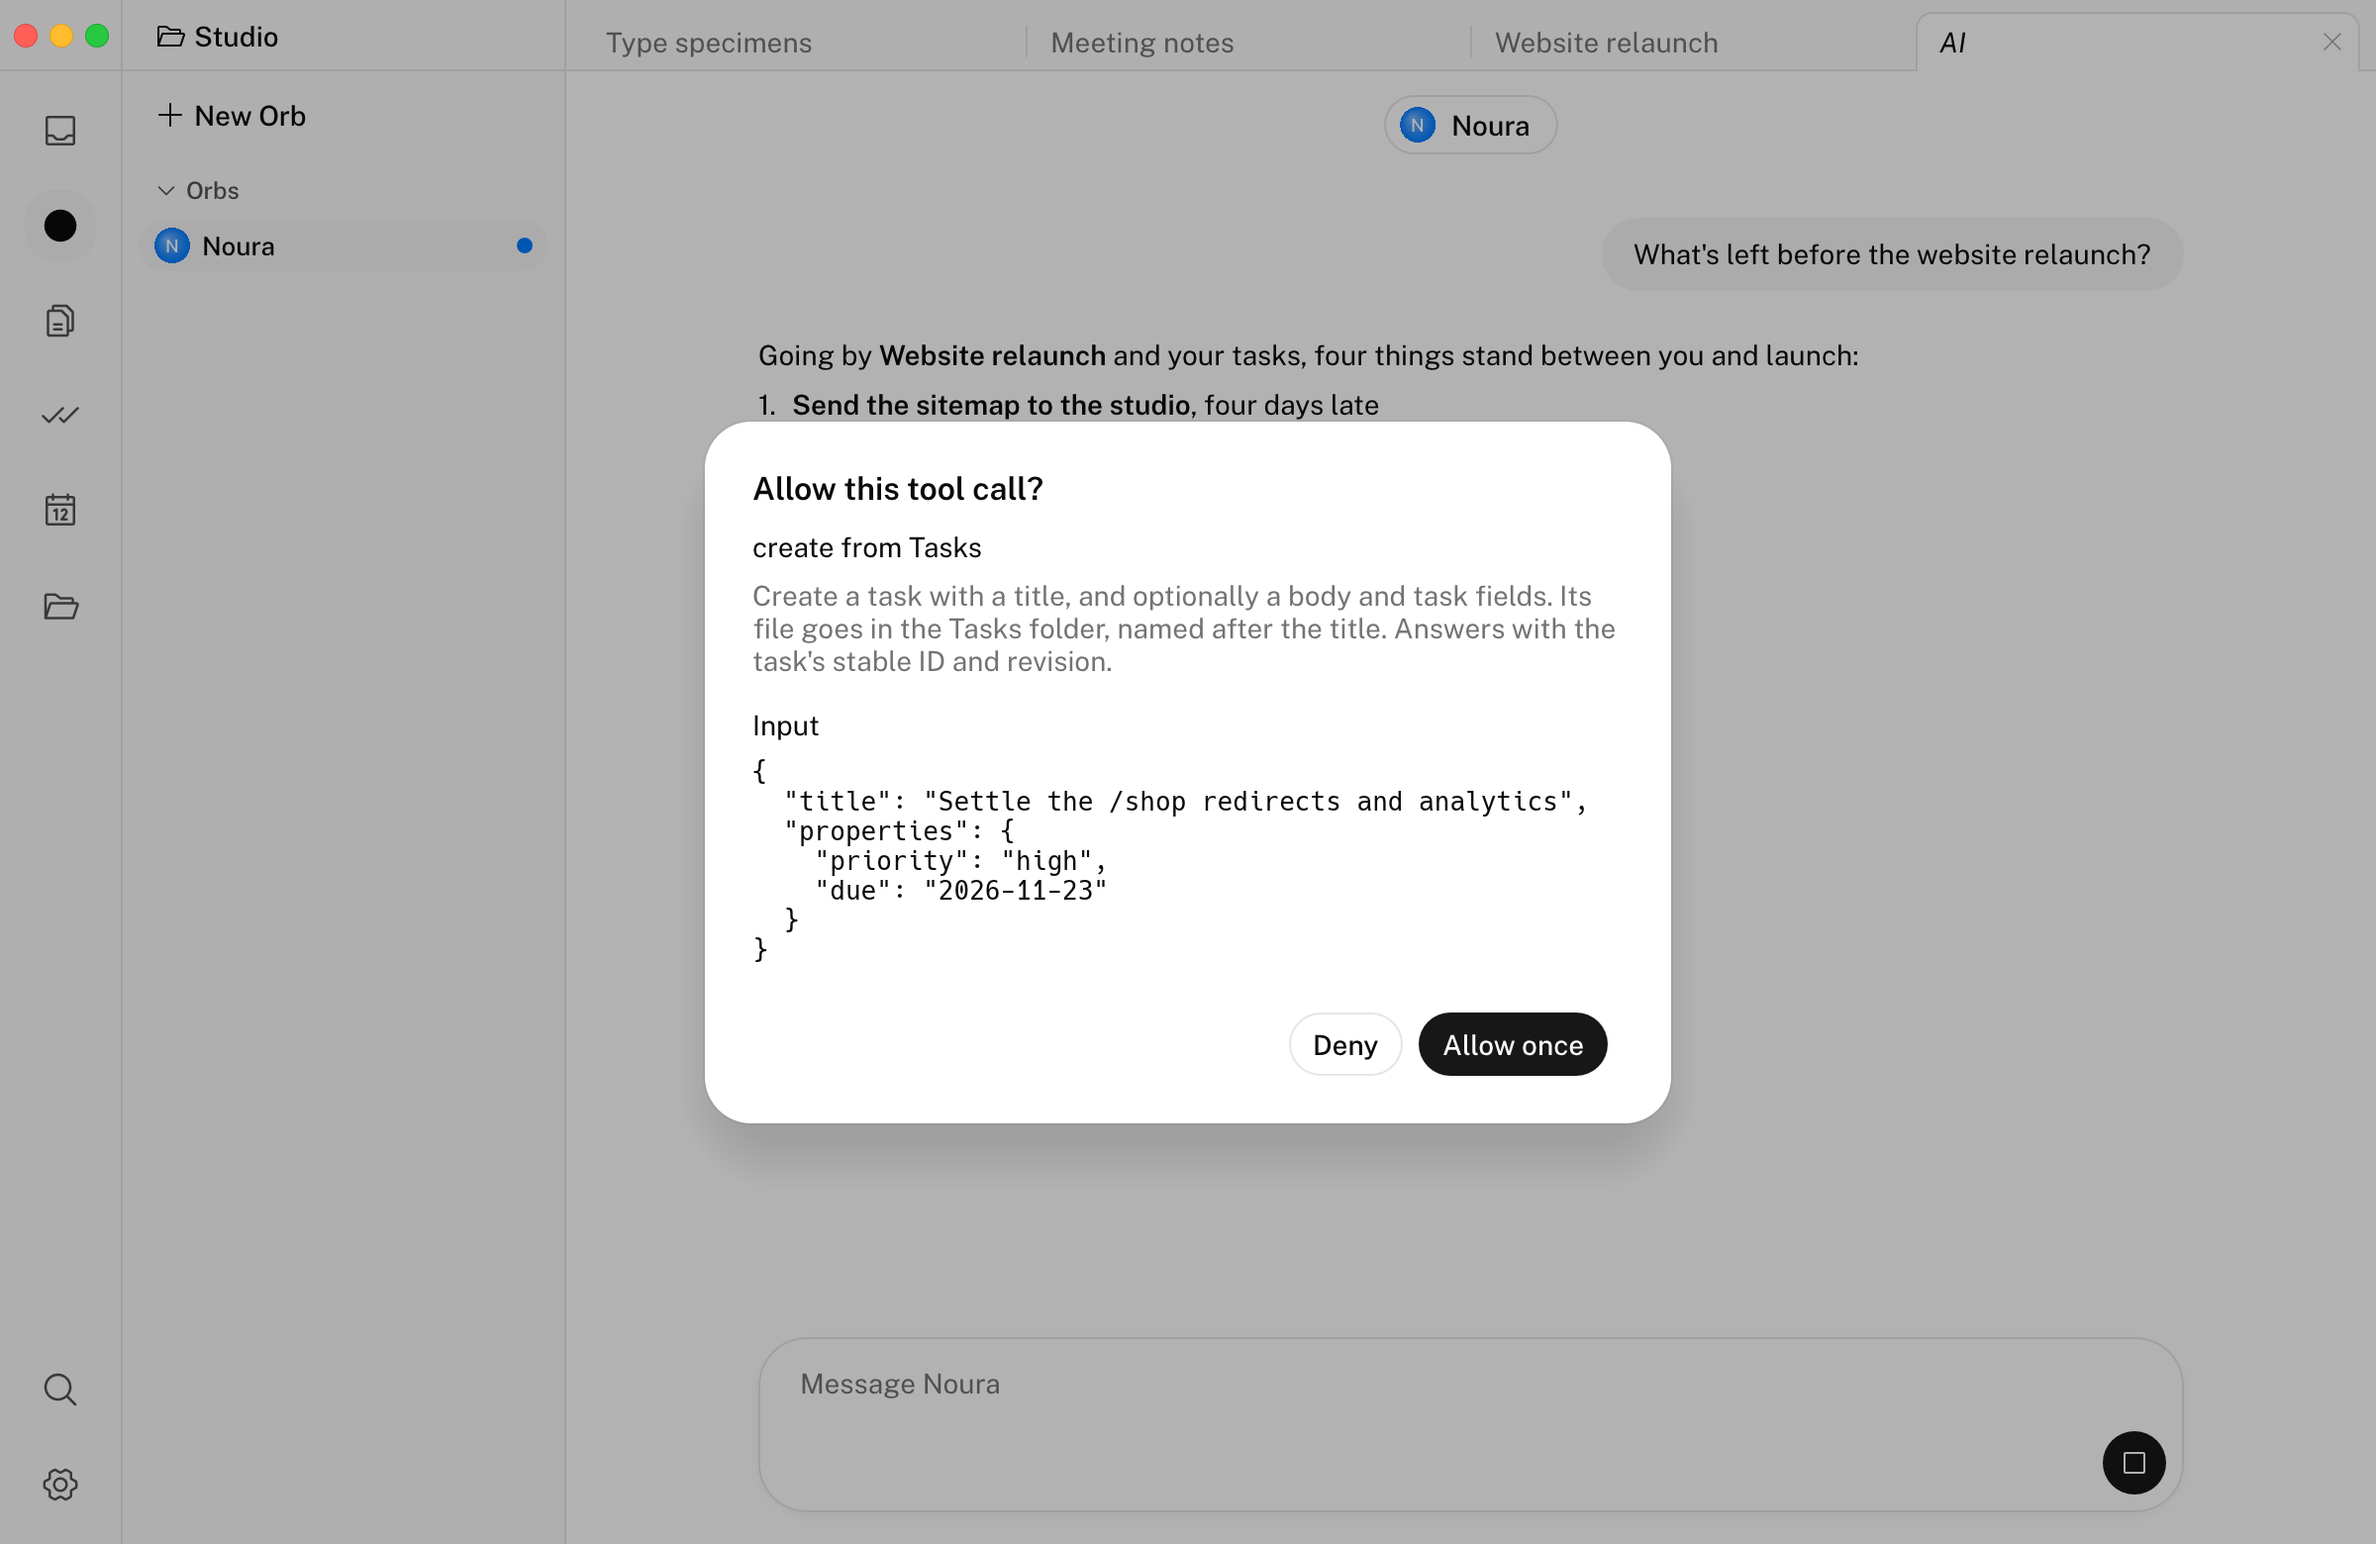
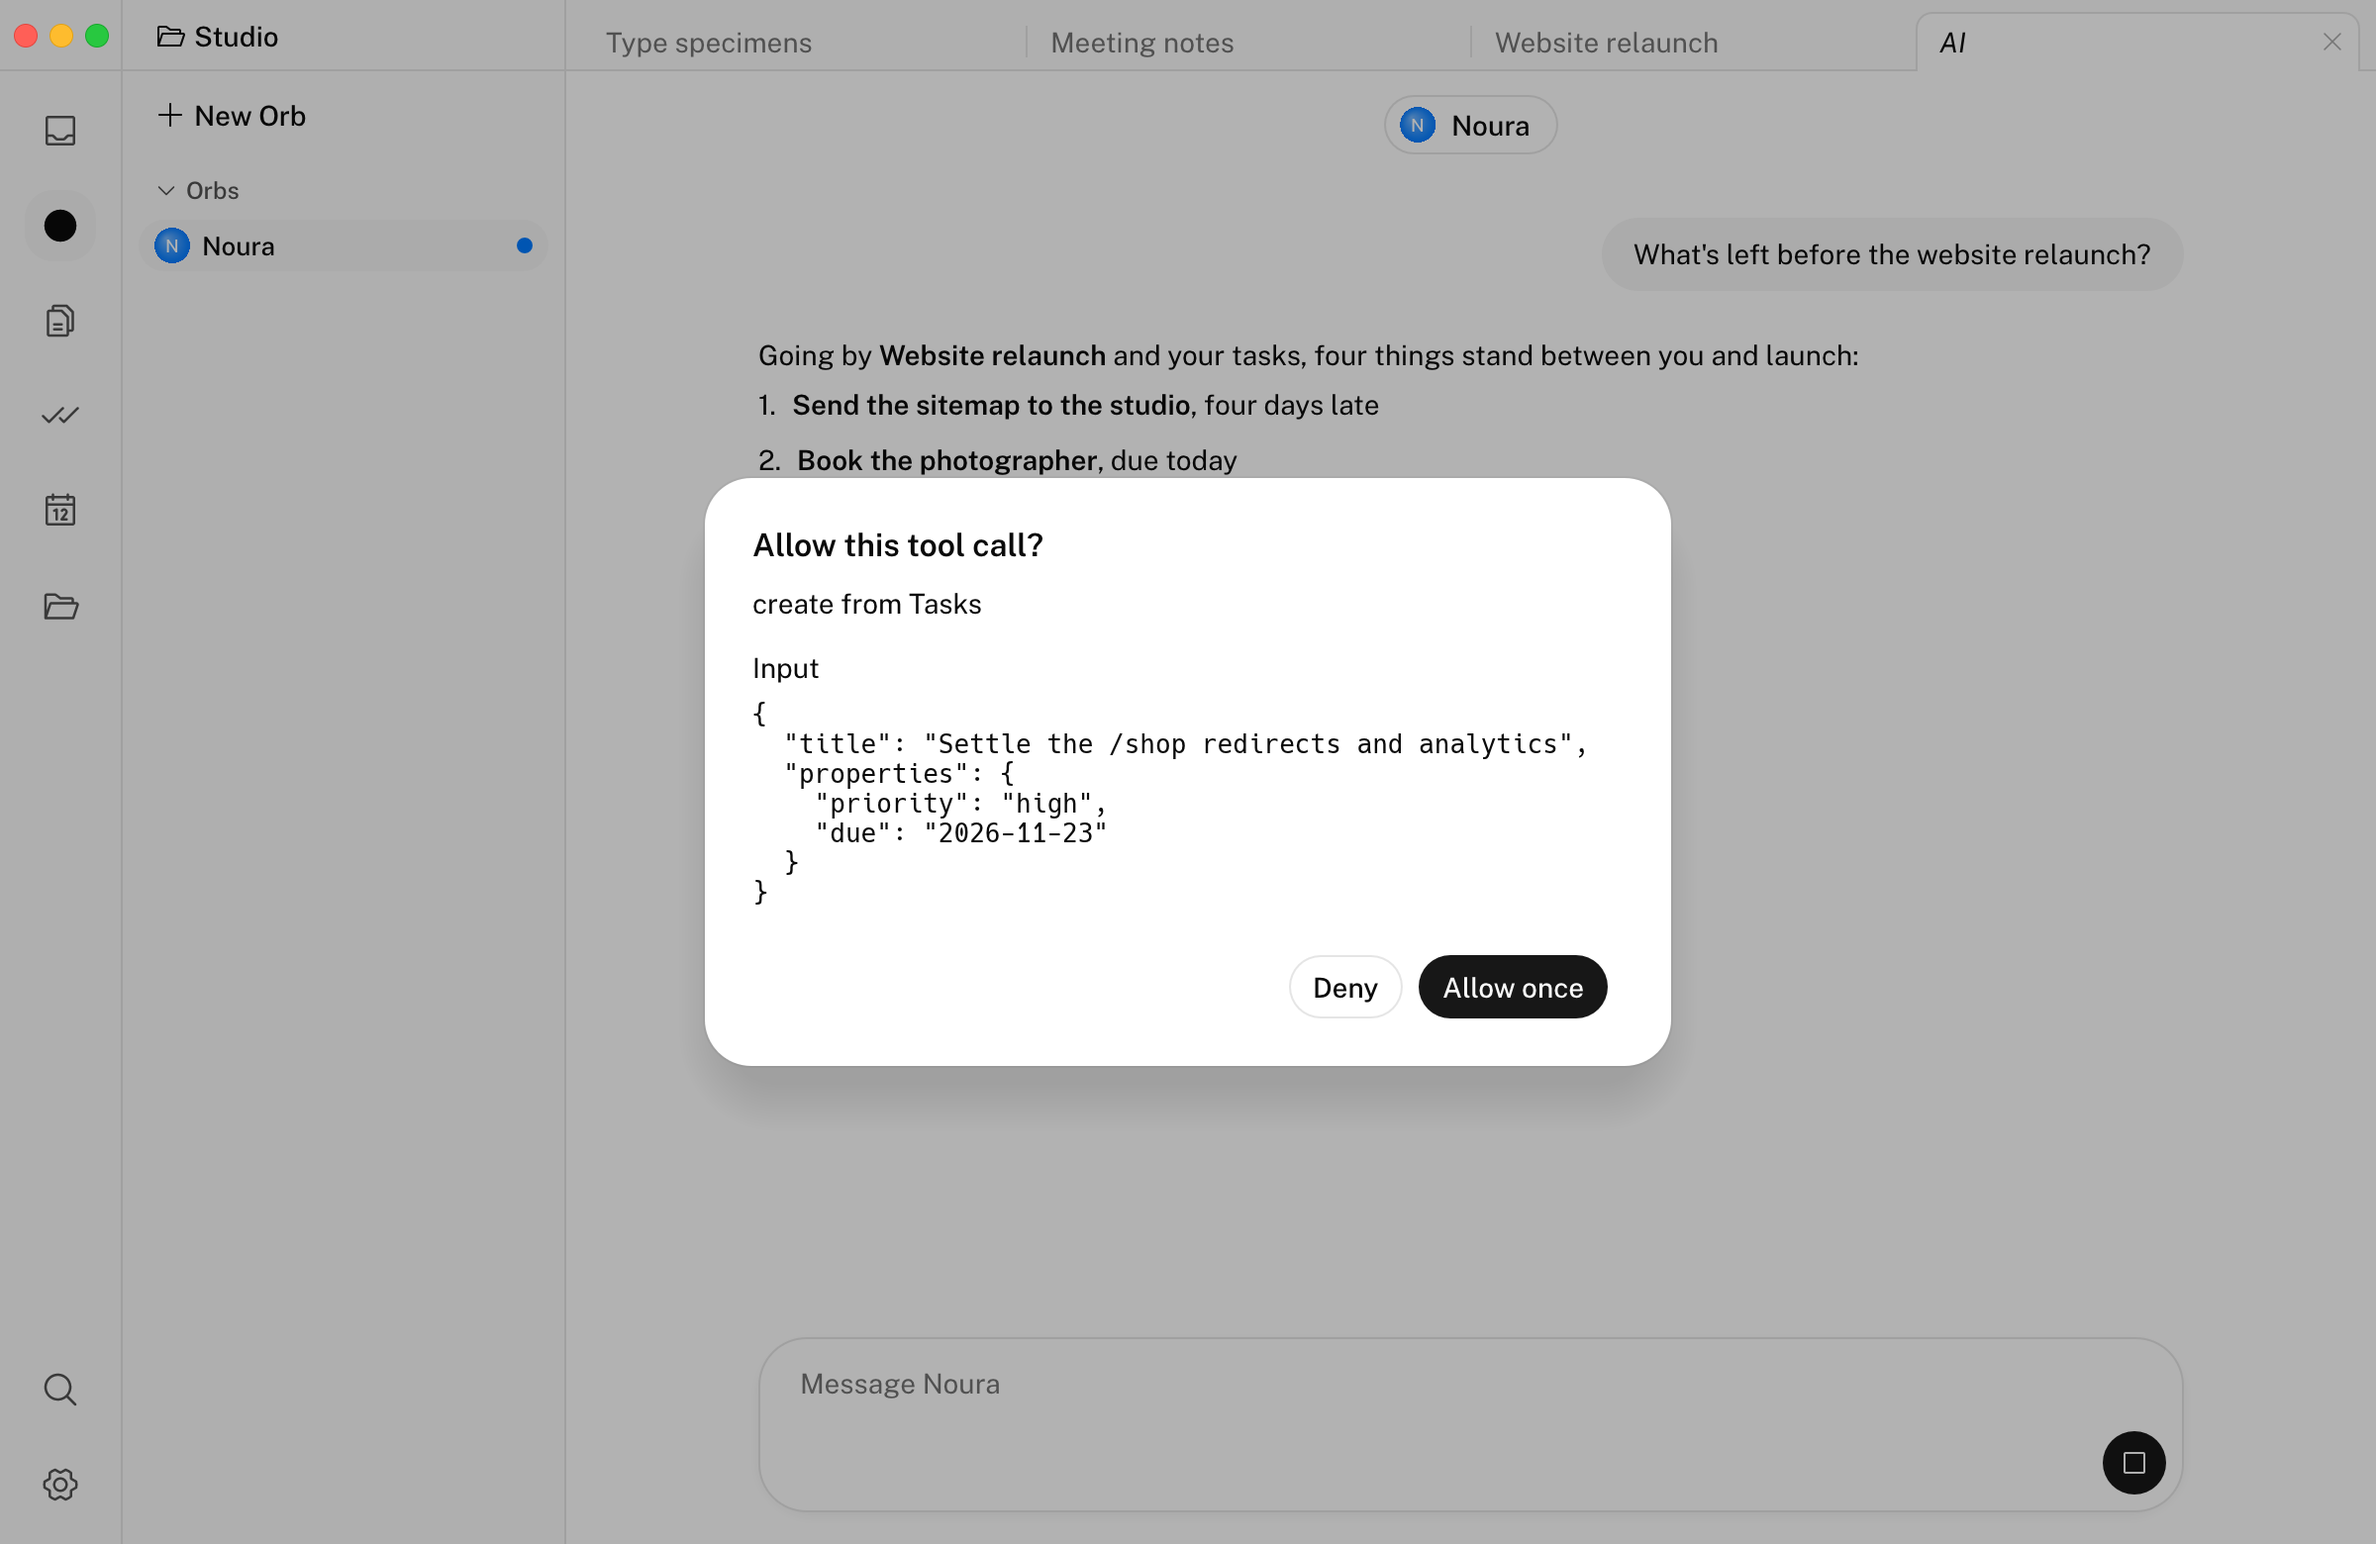
Render the tool prompt alone and a phone-width plugins list for the website
Re-render the screenshots and parts after the app fixes: the shorter
tool prompt, the assignee's icon and the search snippets that show the
match.

Add two parts. ai-dialog cuts the tool prompt out with its shadow on a
transparent background: the test redraws the prompt's rounded edge and
stroke from its frame and measures the shadow against the plain backdrop
in light. plugins-compact shows Settings > Plugins in a 660-point window,
so each switch sits close to its plugin's name.

Changed region(s): [[0.2812, 0.2462, 0.7188, 0.5846], [0.2812, 0.6154, 0.7188, 0.7385], [0.4688, 0.4615, 0.6562, 0.5231]]

diff --git a/crates/app-ui/tests/it/renders.rs b/crates/app-ui/tests/it/renders.rs
@@ -1590,6 +1590,149 @@ fn in_column(rect: egui::Rect, column: egui::Rangef) -> egui::Rect {
     egui::Rect::from_x_y_ranges(column, rect.y_range().expand(PART_MARGIN))
 }
 
+/// How `common::dialog_frame` draws the tool prompt, in points: the
+/// width the prompt sets, the margin around it, the fill's corner radius,
+/// and the stroke drawn outside the fill.
+const PROMPT_WIDTH: f32 = 440.0;
+const PROMPT_MARGIN: f32 = 24.0;
+const PROMPT_RADIUS: f32 = 24.0;
+const PROMPT_STROKE: f32 = 1.0;
+
+/// How far the cut-out reaches past the prompt's stroke for its shadow,
+/// which falls 20 points down and blurs over 25: left and right, top,
+/// and bottom, in points.
+const PROMPT_SHADOW: [f32; 3] = [16.0, 8.0, 40.0];
+
+/// How far `point` lies outside the rounded rectangle `rect` whose
+/// corners curve with `radius`, negative inside.
+fn outside(point: egui::Pos2, rect: egui::Rect, radius: f32) -> f32 {
+    let q = (point - rect.center()).abs() - (rect.size() / 2.0 - egui::Vec2::splat(radius));
+    q.max(egui::Vec2::ZERO).length() + q.x.max(q.y).min(0.0) - radius
+}
+
+/// The tool prompt the window shows, with its shadow, on a transparent
+/// background. The window's dimmed background around the prompt must be
+/// a single color.
+///
+/// Inside its fill the prompt keeps the window's pixels. Its rounded
+/// edge and stroke are drawn again from `common::dialog_frame`, so no
+/// backdrop shows through them. The shadow is black, so in light, where
+/// the backdrop is bright, how much it darkens the backdrop gives its
+/// alpha; dark draws the same shadow, which `shadow` carries over from
+/// light.
+fn cut_out_dialog(
+    harness: &mut Ui,
+    theme: Theme,
+    shadow: &mut Option<Vec<f32>>,
+) -> image::RgbaImage {
+    let image = harness.render().expect("the window renders");
+    let scale = harness.ctx.pixels_per_point();
+    let content = harness
+        .get_by_role_and_label(Role::AlertDialog, TOOL_PROMPT)
+        .query_all(egui_kittest::kittest::By::new())
+        .filter_map(|node| node.accesskit_node().bounding_box())
+        .map(|bounds| {
+            egui::Rect::from_min_max(
+                egui::pos2(bounds.x0 as f32, bounds.y0 as f32) / scale,
+                egui::pos2(bounds.x1 as f32, bounds.y1 as f32) / scale,
+            )
+        })
+        .fold(egui::Rect::NOTHING, egui::Rect::union);
+    let fill = egui::Rect::from_min_max(
+        content.min - egui::Vec2::splat(PROMPT_MARGIN),
+        egui::pos2(
+            content.left() + PROMPT_WIDTH + PROMPT_MARGIN,
+            content.bottom() + PROMPT_MARGIN,
+        ),
+    );
+    let outer = fill.expand(PROMPT_STROKE);
+    let [side, top, bottom] = PROMPT_SHADOW;
+    let cut = egui::Rect::from_min_max(
+        outer.min - egui::vec2(side, top),
+        outer.max + egui::vec2(side, bottom),
+    );
+    let (fill, outer, cut) = (fill * scale, outer * scale, cut * scale);
+    let (radius, outer_radius) = (
+        PROMPT_RADIUS * scale,
+        (PROMPT_RADIUS + PROMPT_STROKE) * scale,
+    );
+    let (left, top) = (cut.left().round() as u32, cut.top().round() as u32);
+    let (width, height) = (cut.width().round() as u32, cut.height().round() as u32);
+    let covered = |x: u32, y: u32, rect: egui::Rect, radius: f32| {
+        let center = egui::pos2(x as f32 + 0.5, y as f32 + 0.5);
+        (0.5 - outside(center, rect, radius)).clamp(0.0, 1.0)
+    };
+
+    // The shadow's alpha where only the shadow covers the backdrop, then
+    // under the prompt's edge, from just outside its stroke.
+    let shadow = shadow.get_or_insert_with(|| {
+        let backdrop = f32::from(image.get_pixel(left, top)[0]);
+        let mut alpha: Vec<f32> = (0..height)
+            .flat_map(|y| (0..width).map(move |x| (x, y)))
+            .map(|(x, y)| {
+                let (x, y) = (left + x, top + y);
+                if covered(x, y, outer, outer_radius) > 0.0 {
+                    return f32::NAN;
+                }
+                (1.0 - f32::from(image.get_pixel(x, y)[0]) / backdrop).clamp(0.0, 1.0)
+            })
+            .collect();
+        let inner = outer.shrink(outer_radius);
+        for index in 0..alpha.len() {
+            if !alpha[index].is_nan() {
+                continue;
+            }
+            let at = egui::pos2(
+                (left + index as u32 % width) as f32 + 0.5,
+                (top + index as u32 / width) as f32 + 0.5,
+            );
+            let corner = inner.clamp(at);
+            let out = (at - corner).normalized();
+            let beyond = corner + out * (outer_radius + 3.0);
+            let (x, y) = (beyond.x as i64 - left as i64, beyond.y as i64 - top as i64);
+            alpha[index] = if out == egui::Vec2::ZERO
+                || !(0..width as i64).contains(&x)
+                || !(0..height as i64).contains(&y)
+            {
+                0.0
+            } else {
+                alpha[(y * width as i64 + x) as usize]
+            };
+        }
+        alpha
+    });
+
+    let palette = match theme {
+        Theme::Light => app_ui::theme::Palette::light(),
+        Theme::Dark => app_ui::theme::Palette::dark(),
+    };
+    let stroke = if theme == Theme::Dark { 0.1 } else { 0.05 };
+    let rgb = |color: egui::Color32| [color.r(), color.g(), color.b()].map(f32::from);
+    image::RgbaImage::from_fn(width, height, |x, y| {
+        let (at_x, at_y) = (left + x, top + y);
+        let body = covered(at_x, at_y, fill, radius);
+        let ring = covered(at_x, at_y, outer, outer_radius) - body;
+        let face = if body >= 1.0 {
+            let pixel = image.get_pixel(at_x, at_y);
+            [pixel[0], pixel[1], pixel[2]].map(f32::from)
+        } else {
+            rgb(palette.popover)
+        };
+        // The shadow, the stroke over it, then the fill over both.
+        let mut alpha = shadow[(y * width + x) as usize];
+        let mut color = [0.0; 3];
+        for (layer, cover) in [(rgb(palette.foreground), ring * stroke), (face, body)] {
+            let under = alpha * (1.0 - cover);
+            alpha = cover + under;
+            if alpha > 0.0 {
+                color = std::array::from_fn(|c| (layer[c] * cover + color[c] * under) / alpha);
+            }
+        }
+        let [r, g, b] = color.map(|c| c.round() as u8);
+        image::Rgba([r, g, b, (alpha * 255.0).round() as u8])
+    })
+}
+
 /// The studio's workspace at `/Users/Shared/Studio` on a Mac, so the MCP
 /// configuration in Settings names a folder as a person's would, or in a
 /// temporary folder elsewhere. It refuses a folder that's there already,
@@ -1640,11 +1783,14 @@ const MOVED: &str = "If you move this workspace or Noura, copy the configuration
 /// The pieces of the interface the website shows in its feature cards,
 /// each cropped from the window with some of the app's background around
 /// it, in light and dark: `file-tree`, `task-rows`, `ai-approval`,
-/// `plugins`, `mcp`, `calendar-day` and `palette`.
+/// `ai-dialog`, `plugins`, `plugins-compact`, `mcp`, `calendar-day` and
+/// `palette`.
 /// `scripts/website-screens.sh` turns them into the site's images.
 #[test]
 #[ignore = "draws the website's screenshots, which needs a GPU"]
 fn website_parts() {
+    // The tool prompt's shadow, measured in light, where it shows.
+    let mut shadow = None;
     for theme in [Theme::Light, Theme::Dark] {
         let studio = SharedStudio::new();
         let (mut harness, _folders) = website_window(
@@ -1722,6 +1868,15 @@ fn website_parts() {
         );
         let conversation = around_all_in(&harness, thread).expand(24.0 + PART_MARGIN);
         save_component(&mut harness, "ai-approval", theme, conversation);
+        // The prompt alone, in a taller window that leaves blank space
+        // around it.
+        harness.set_size(egui::vec2(SIZE[0], 1400.0));
+        settle(&mut harness);
+        leave(&mut harness);
+        let dialog = cut_out_dialog(&mut harness, theme, &mut shadow);
+        write_png(&dialog, &format!("ai-dialog-{}", theme_name(theme)));
+        harness.set_size(egui::vec2(SIZE[0], SIZE[1]));
+        settle(&mut harness);
         harness.get_by_role_and_label(Role::Button, "Deny").click();
         settle(&mut harness);
 
@@ -1760,6 +1915,29 @@ fn website_parts() {
             ),
         );
         save_component(&mut harness, "mcp", theme, mcp.expand(PART_MARGIN));
+        // Plugins again, in a window narrow enough that each switch sits
+        // close to its plugin's name, as on a phone.
+        harness
+            .get_by_role_and_label(Role::Navigation, "Settings sections")
+            .get_by_role_and_label(Role::Button, "Plugins")
+            .click();
+        settle(&mut harness);
+        harness.set_size(egui::vec2(660.0, 780.0));
+        settle(&mut harness);
+        let compact = around(
+            &harness,
+            Role::Button,
+            &["AI settings", "Transcription settings"],
+        )
+        .union(around(&harness, Role::Switch, &["Enable Transcription"]));
+        save_component(
+            &mut harness,
+            "plugins-compact",
+            theme,
+            compact.expand(PART_MARGIN),
+        );
+        harness.set_size(egui::vec2(SIZE[0], SIZE[1]));
+        settle(&mut harness);
         press(&mut harness, Modifiers::NONE, Key::Escape);
 
         open_rail_page(&mut harness, "Calendar", Role::Grid, "Calendar");

diff --git a/apps/website/static/parts/README.md b/apps/website/static/parts/README.md
@@ -4,8 +4,10 @@
 
 | Part | Pixels | Shows |
 | --- | --- | --- |
-| `ai-approval` | 1564 × 1000 | A question about the workspace, the answer, and Noura asking before the AI creates a task |
+| `ai-approval` | 1564 × 942 | A question about the workspace, the answer, and Noura asking before the AI creates a task |
+| `ai-dialog` | 1044 × 694 | Noura's prompt before the AI creates a task, alone with its shadow on a transparent background |
 | `plugins` | 1416 × 1048 | Settings > Plugins, with Dictation and Transcription turned off |
+| `plugins-compact` | 680 × 904 | The same plugins in a narrow window, each switch close to its name, for phones |
 | `task-rows` | 878 × 450 | The Studio admin project's tasks: three upcoming and one done |
 | `file-tree` | 444 × 948 | The sidebar's files, with three folders open and the Website relaunch note selected |
 | `mcp` | 1416 × 794 | The MCP configuration in Settings > External tools, with its Copy button |
